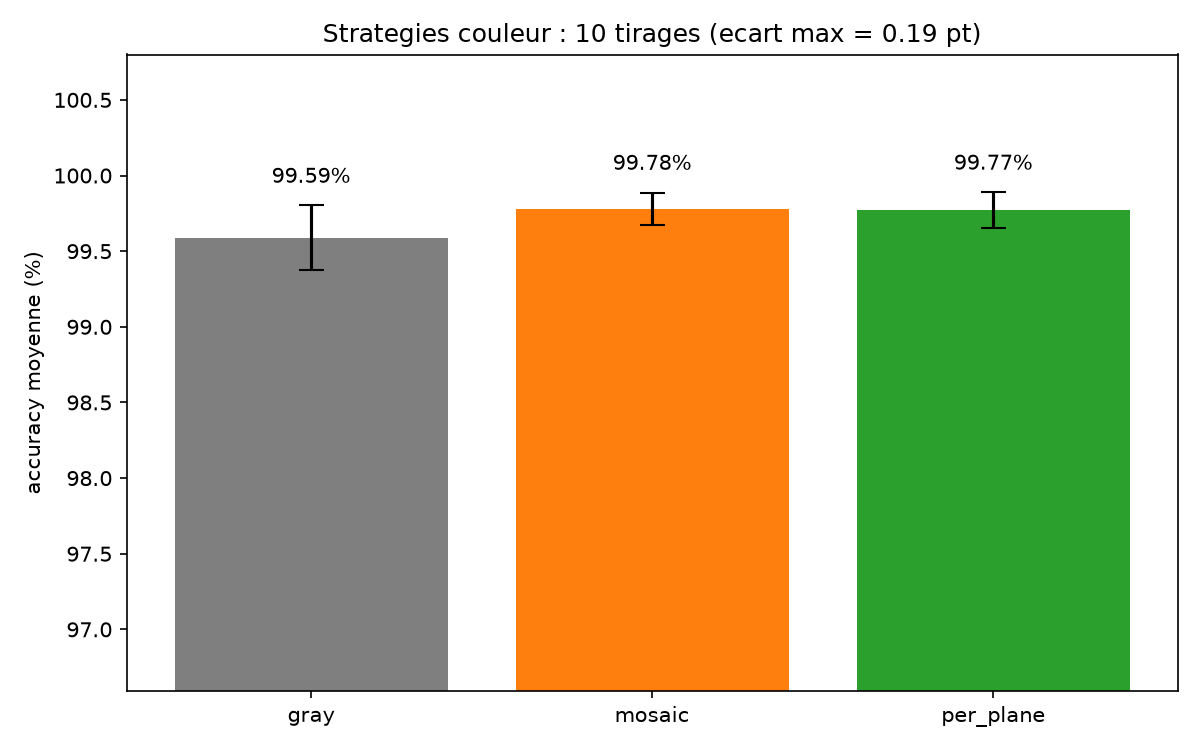
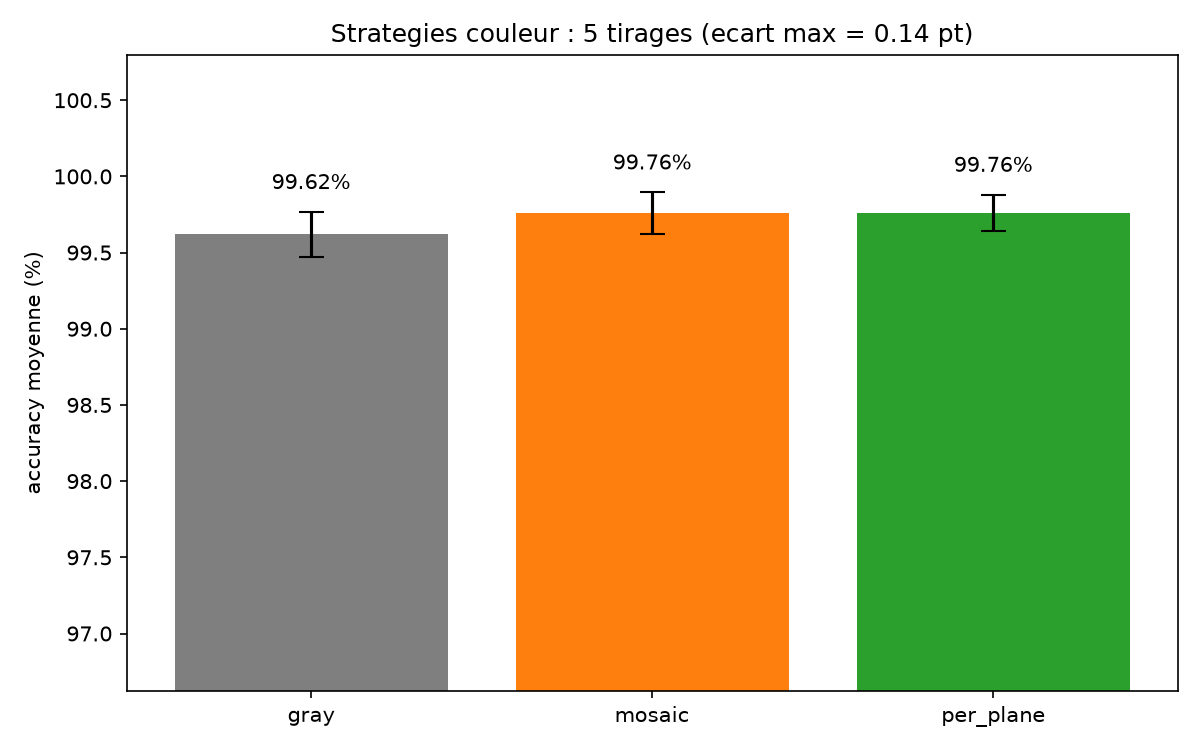
Limit to 5 draws, add pyramid construction figure, update README
- colour comparison reuses the 5 cross-validation draws (was 10)
- SAD classification in float32 (exact, about 2x faster)
- new pyramide_histogrammes_{empty,occupied}.png: 1 histogram, then 4,
  then 16 on smaller blocks, concatenated into the final vector
- README: pyramid explanation, 5-draw colour results, new outputs

diff --git a/parking_v6.py b/parking_v6.py
@@ -76,8 +76,10 @@ RANDOM_SEED = 42
 # Le 1er tirage (RANDOM_SEED) est le tirage "officiel" : c'est le seul qui
 # ecrit model.txt / test.txt / les graphes. Les autres ne servent qu'a
 # mesurer la stabilite de l'accuracy (validation croisee).
+# 5 tirages au maximum (temps de calcul) : la comparaison couleur reutilise
+# les memes 5 tirages que la validation croisee.
 CV_SEEDS = [RANDOM_SEED, 1, 2, 3, 4]
-COLOR_SEEDS = [RANDOM_SEED] + list(range(1, 10))  # 10 tirages pour la couleur
+COLOR_SEEDS = CV_SEEDS
 
 RESIZE_SIZE = (64, 64)
 VALID_EXT = (".jpg", ".jpeg", ".png", ".bmp")
@@ -475,6 +477,79 @@ def plot_multiscale_example(train_images,
     print(f"[graph] {out_file} enregistre")
 
 
+def plot_pyramid_levels(train_images, out_dir=FEATURE_DIR):
+    """Construction de la pyramide, niveau par niveau, pour 1 exemple par
+    classe : 1 histogramme sur l'image entiere, puis 4 histogrammes sur des
+    blocs 2 fois plus petits, puis 16 sur des blocs encore 2 fois plus
+    petits... et a la fin tous les histogrammes mis bout a bout forment le
+    vecteur final. Verifie au passage que les histogrammes d'un niveau
+    additionnes redonnent l'histogramme de l'image entiere."""
+    fine = GRID_SCALES[-1]
+    for class_name in LABELS:
+        out_file = os.path.join(out_dir, f"pyramide_histogrammes_{class_name}.png")
+        with timer(f"Graphique pyramide_histogrammes_{class_name}.png"):
+            gray = load_gray(train_images[class_name][0])
+            codes = UNIFORM_LUT[compute_lbp(gray)]
+            h, w = gray.shape
+            whole = np.bincount(codes.ravel(), minlength=N_BINS)
+
+            n_levels = len(GRID_SCALES)
+            fig = plt.figure(figsize=(14, 3.6 * (n_levels + 1)))
+            outer = fig.add_gridspec(n_levels + 1, 2, width_ratios=[1, 4],
+                                     hspace=0.45, wspace=0.08, top=0.94)
+
+            all_hists = []
+            for lvl, grid in enumerate(GRID_SCALES):
+                hists = block_histograms(codes, grid)
+                all_hists.extend(hists)
+                sums_ok = np.array_equal(np.sum(hists, axis=0), whole)
+
+                ax_img = fig.add_subplot(outer[lvl, 0])
+                ax_img.imshow(gray, cmap="gray")
+                for k in range(1, grid):
+                    ax_img.axhline(k * h / grid - 0.5, color="yellow", lw=1)
+                    ax_img.axvline(k * w / grid - 0.5, color="yellow", lw=1)
+                ax_img.set_title(f"niveau {lvl} : grille {grid}x{grid}\n"
+                                 f"blocs de {h // grid}x{w // grid} pixels", fontsize=10)
+                ax_img.axis("off")
+
+                inner = outer[lvl, 1].subgridspec(grid, grid, hspace=0.15, wspace=0.08)
+                ymax = max(hh.max() for hh in hists)
+                for idx, hist in enumerate(hists):
+                    ax = fig.add_subplot(inner[idx // grid, idx % grid])
+                    ax.bar(range(N_BINS), hist, width=1.0, color=f"C{lvl}")
+                    ax.set_ylim(0, ymax * 1.05)
+                    ax.set_xticks([])
+                    ax.set_yticks([])
+                    if idx == 0:
+                        ax.set_title(f"{grid * grid} histogramme(s) de {N_BINS} bins"
+                                     f" - somme = histogramme 1x1 : "
+                                     f"{'oui' if sums_ok else 'NON'}",
+                                     loc="left", fontsize=10)
+
+            vector = np.concatenate(all_hists)
+            ax = fig.add_subplot(outer[n_levels, :])
+            start = 0
+            for lvl, grid in enumerate(GRID_SCALES):
+                size = grid * grid * N_BINS
+                ax.bar(range(start, start + size), vector[start:start + size],
+                       width=1.0, color=f"C{lvl}", label=f"niveau {lvl} ({grid}x{grid})")
+                start += size
+            ax.set_xlim(-0.5, len(vector) - 0.5)
+            ax.set_title(f"Vecteur final = les {len(all_hists)} histogrammes mis bout a bout "
+                         f"({len(vector)} valeurs)", fontsize=11)
+            ax.set_xlabel("indice (bloc x bin LBP)")
+            ax.set_ylabel("nb de pixels")
+            ax.legend(loc="upper right")
+
+            fig.suptitle(f"Pyramide LBP {'-'.join(str(g) for g in GRID_SCALES)} - "
+                         f"exemple '{class_name}' (grille la plus fine : {fine}x{fine})",
+                         fontsize=13)
+            fig.savefig(out_file, dpi=130, bbox_inches="tight")
+            plt.close(fig)
+        print(f"[graph] {out_file} enregistre")
+
+
 def plot_average_histograms(model_entries, out_file=os.path.join(FEATURE_DIR, "histogramme_moyen.png")):
     with timer("Graphique histogramme_moyen.png"):
         vectors_by_label = {0: [], 1: []}
@@ -527,16 +602,18 @@ def sad_distance(vec_a, vec_b):
 
 def model_to_matrix(model_entries):
     """Convertit la liste [(label, vecteur), ...] en une matrice numpy
-    (n_images x 256) et un vecteur de labels, pour un calcul vectorise."""
+    (n_images x taille du vecteur) et un vecteur de labels, pour un calcul
+    vectorise. float32 : 2x moins de memoire a parcourir que float64, et les
+    distances SAD (entiers < 2^24) restent exactes."""
     labels = np.array([label for label, _ in model_entries], dtype=np.int32)
-    matrix = np.array([vec for _, vec in model_entries], dtype=np.float64)
+    matrix = np.array([vec for _, vec in model_entries], dtype=np.float32)
     return matrix, labels
 
 
 def classify_vector_fast(test_vector, train_matrix, train_labels):
     """1-NN vectorise (distance SAD) : calcule la distance entre test_vector
     et TOUS les vecteurs d'entrainement en une seule operation numpy."""
-    test_vec = np.asarray(test_vector, dtype=np.float64)
+    test_vec = np.asarray(test_vector, dtype=np.float32)
     distances = np.sum(np.abs(train_matrix - test_vec), axis=1)
     best_idx = int(np.argmin(distances))
     return int(train_labels[best_idx]), float(distances[best_idx])
@@ -748,6 +825,7 @@ def run_cross_validation(pools):
             if is_official:
                 if FEATURE_MODE == "multiscale":
                     plot_multiscale_example(train_images)
+                    plot_pyramid_levels(train_images)
                 else:
                     plot_sample_histograms(train_images)
                 plot_average_histograms(model_entries)

diff --git a/README.md b/README.md
@@ -22,26 +22,36 @@ choisit avec la constante `FEATURE_MODE` :
    combinés par classe, puis séparés aléatoirement en train / test (le test
    set est réservé en premier pour ne jamais se retrouver vide).
 2. **Caractérisation** (au choix) :
-   - *multiscale* : image en niveaux de gris 64×64, LBP (8 voisins, rayon 1)
-     avec mapping *uniform* (58 motifs uniformes + 1 bin « autres » = 59 bins),
-     puis un histogramme par bloc pour les grilles 1×1, 2×2 et 4×4
-     (21 blocs) : 59 × 21 = **1239 valeurs**. Chaque échelle a la même masse
-     totale (nombre de pixels), donc aucune ne domine la distance.
+   - *multiscale* (pyramide LBP 1-2-4) : image en niveaux de gris 64×64, LBP
+     (8 voisins, rayon 1) avec mapping *uniform* (58 motifs uniformes + 1 bin
+     « autres » = 59 bins). On construit ensuite une pyramide d'histogrammes
+     sur des blocs de plus en plus petits :
+     - niveau 0 : **1** histogramme sur l'image entière (64×64) ;
+     - niveau 1 : **4** histogrammes sur des blocs 2 fois plus petits (32×32) ;
+     - niveau 2 : **16** histogrammes sur des blocs encore 2 fois plus petits (16×16).
+
+     À la fin, les 21 histogrammes sont mis bout à bout pour former le vecteur
+     final : 59 × 21 = **1239 valeurs**. À chaque niveau, les histogrammes des
+     blocs additionnés redonnent exactement l'histogramme de l'image entière :
+     chaque niveau a donc la même masse totale (nombre de pixels), et aucun ne
+     domine la distance.
    - *mosaic* : image RGB séparée en 3 canaux concaténés côte à côte en une
      « grosse image », LBP sur cette image, histogramme de 256 codes.
    - *gray* et *per_plane* : voir l'extension à la couleur ci-dessous.
 3. **Modèle** : `model.txt` contient le vecteur de chaque image
    d'entraînement avec son label (0 = vide, 1 = occupée).
 4. **Classification** : 1-plus-proche-voisin avec la distance **SAD**
-   (Sum of Absolute Differences), vectorisée en numpy. Résultat dans `test.txt`.
+   (Sum of Absolute Differences), vectorisée en numpy (float32 : les distances
+   sont des entiers, donc restent exactes). Résultat dans `test.txt`.
 5. **Comparaison de distances** : le même test set est classé avec 7 méthodes
    (SAD + 6 équivalents de `cv2.compareHist` : Correlation, ChiSquare,
    Intersection, Bhattacharyya, ChiSquareAlt, KLDivergence), calculées en
    numpy, en float32 et en parallèle (threads) avec suivi de l'avancement.
-6. **Validation croisée** : le pipeline est répété sur 5 tirages aléatoires
-   (seeds 42, 1, 2, 3, 4). Le tirage 42 est le tirage « officiel » qui écrit
-   les fichiers de sortie ; les vecteurs de chaque image sont mis en cache
-   pour n'être extraits qu'une seule fois.
+6. **Validation croisée** : le pipeline est répété sur **5 tirages au
+   maximum** (seeds 42, 1, 2, 3, 4) pour limiter le temps de calcul ; la
+   comparaison couleur réutilise ces mêmes 5 tirages. Le tirage 42 est le
+   tirage « officiel » qui écrit les fichiers de sortie ; les vecteurs de
+   chaque image sont mis en cache pour n'être extraits qu'une seule fois.
 7. **Chronométrage** : chaque étape est chronométrée, résumé en fin
    d'exécution.
 
@@ -83,6 +93,8 @@ resultats_v6/
 │   ├── model.txt                  vecteurs d'entraînement (label;v1,v2,...)
 │   └── test.txt                   prédictions SAD (chemin;label_reel;label_predit;distance_min)
 ├── 2_caracterisation/
+│   ├── pyramide_histogrammes_empty.png     construction de la pyramide, niveau par niveau
+│   ├── pyramide_histogrammes_occupied.png
 │   ├── multi_echelle_exemple.png  image + grille, codes LBP, vecteur multi-échelle
 │   │                              (mode mosaic : histogramme_exemple.png)
 │   └── histogramme_moyen.png      vecteur moyen par classe
@@ -125,6 +137,16 @@ Comparaison des distances sur le tirage officiel (seed 42) :
 
 ![Comparaison des méthodes de distance](images/comparaison_distances.png)
 
+### Construction de la pyramide
+
+Pour un exemple « occupé » : 1 histogramme sur l'image entière, puis 4
+histogrammes sur des blocs 2 fois plus petits, puis 16 sur des blocs encore 2
+fois plus petits. En bas, les 21 histogrammes mis bout à bout forment le
+vecteur final de 1239 valeurs. Le titre de chaque niveau vérifie que la somme
+de ses histogrammes redonne bien l'histogramme de l'image entière.
+
+![Construction de la pyramide](images/pyramide_histogrammes_occupied.png)
+
 ### Illustration du pipeline multi-échelle
 
 Pour un exemple par classe : l'image en niveaux de gris avec la grille 4×4, les
@@ -150,22 +172,23 @@ image de largeur 3W sur laquelle un unique LBP est calculé (la *mosaïque*).
 ![Construction de la mosaïque](images/mosaique_couleur.png)
 
 Trois stratégies sont comparées avec exactement les mêmes découpages
-train / test sur **10 tirages** (SAD, 1-NN, 256 ou 768 valeurs, sans blocs) :
+train / test sur les **5 tirages** de la validation croisée (SAD, 1-NN, 256 ou
+768 valeurs, sans blocs) :
 
 | Stratégie | Accuracy moyenne | Écart-type |
 |---|---|---|
-| `gray` (référence) | 99,59 % | 0,21 pt |
-| `mosaic` (R\|G\|B, un LBP) | 99,78 % | 0,11 pt |
-| `per_plane` (un LBP par plan) | 99,77 % | 0,12 pt |
+| `gray` (référence) | 99,62 % | 0,15 pt |
+| `mosaic` (R\|G\|B, un LBP) | 99,76 % | 0,14 pt |
+| `per_plane` (un LBP par plan) | 99,76 % | 0,12 pt |
 
 ![Comparaison des stratégies couleur](images/comparaison_couleur.png)
 
-Les trois stratégies sont à moins de **0,19 point** l'une de l'autre, et la
-mosaïque et le LBP par plan sont pratiquement identiques (0,01 pt). Sur ce jeu
-de données la couleur n'apporte donc qu'un gain très faible : les deux
-stratégies couleur font un peu mieux que le gris (mieux ou égal sur 9 tirages
-sur 10 dans le fichier `comparaison_couleur.txt`) et sont plus stables, mais
-l'écart reste du même ordre que la variabilité entre tirages.
+Les trois stratégies sont à moins de **0,14 point** l'une de l'autre, et la
+mosaïque et le LBP par plan ont la même moyenne. Sur ce jeu de données la
+couleur n'apporte donc qu'un gain très faible : chacune des deux stratégies
+couleur fait mieux ou aussi bien que le gris sur 4 tirages sur 5 (fichier
+`comparaison_couleur.txt`), mais l'écart reste du même ordre que la
+variabilité entre tirages.
 
 Une explication plausible : le LBP compare chaque voisin au pixel central, il
 est donc invariant aux changements monotones d'intensité, et les trois plans
@@ -188,10 +211,10 @@ protocole complet, le CNN atteint 99,48 % contre 99,92 % pour la pyramide LBP
 |---|---|
 | `DATA_DIR`, `SUB_FOLDERS` | chemin du dataset et sous-dossiers combinés |
 | `FEATURE_MODE` | `"multiscale"`, `"mosaic"` (`"global"`), `"gray"` ou `"per_plane"` |
-| `COLOR_STRATEGIES`, `COLOR_SEEDS` | stratégies et 10 tirages de la comparaison couleur |
+| `COLOR_STRATEGIES`, `COLOR_SEEDS` | stratégies et tirages de la comparaison couleur (= `CV_SEEDS`, 5 tirages) |
 | `RUN_COLOR_COMPARISON` | lance la comparaison couleur après la validation croisée |
 | `GRID_SCALES` | grilles de la pyramide multi-échelle (défaut `[1, 2, 4]`) |
 | `N_TRAIN_PER_CLASS` / `N_TEST_PER_CLASS` | taille du split par classe |
 | `RESIZE_SIZE` | taille de redimensionnement avant extraction |
-| `CV_SEEDS` | graines utilisées pour la validation croisée |
+| `CV_SEEDS` | graines des 5 tirages de la validation croisée |
 | `RESULT_DIR` | dossier des sorties |
